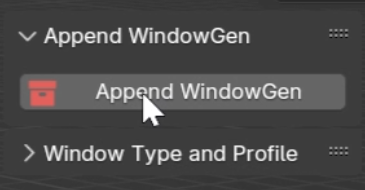
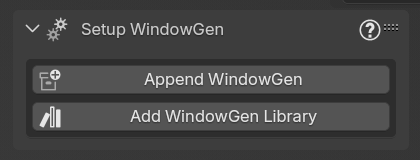
update to 3.0 version

diff --git a/docs/source/conf.py b/docs/source/conf.py
@@ -5,11 +5,11 @@
 # -- Project information
 
 project = 'WindowGen'
-copyright = '2024, Mikhail Shevchenko'
+copyright = '2025, Mikhail Shevchenko'
 author = 'Mikhail Shevchenko'
 
-release = '2.0'
-version = '2.0.1'
+release = '3.0'
+version = '3.0.1'
 
 # -- General configuration
 

diff --git a/docs/source/working_with_generator.rst b/docs/source/working_with_generator.rst
@@ -26,35 +26,85 @@ Before adding your first window to the scene, you need to append WindowGen compo
     .. image:: images/02_working_with_01append.png
         :width: 50%  
 
-2. The button will turn blue, indicating that Blender is loading all the necessary components into your scene. This process takes a few seconds.
+2. The button will turn into progress bar, indicating that Blender is loading all the necessary components into your scene. This process takes 5-10 seconds.
 
     .. image:: images/02_working_with_01loading.png
         :width: 50%
 
-3. Once all the components are loaded, the button will turn grey, and the text "Successfully Appended!" will appear on the button.
+3. Once all the components are loaded, the button will turn grey, and the text "WindowGen Appended" will appear on the button. And the panel "Add Window" will appear as well.
 
     .. image:: images/02_working_with_01success.png
+        :width: 50%
+
+How to add WindowGen Asset Library to the Blender
+-------------------------------------
+
+WindowGen Asset Library will bring realistic materials to customize the appearance of your windows even further:
+
+1. Press the "Add WindowGen Library" button.
+
+    .. image:: images/02_working_with_03add.png
+        :width: 50%  
+
+2. Once the Asset Library is added, the button will turn grey, and the text "WindowGen Library Added" will appear on the button.
+
+    .. image:: images/02_working_with_03success.png
+        :width: 50%
+
+3. Navigate to the Asset Browser, and select WindowGen in the libraries list to find the materials.
+
+    .. image:: images/02_working_with_03browser.gif
+        :width: 50%
+
+    .. tip::
+        For easier seacrh most of the materials have tags: Metal, Plastic, RAL color code, etc.
+
+How to update WindowGen
+-------------------------------------
+
+Once you install the latest version of WindowGen addon, you will be able to update your older projects to this version.
+    .. note::
+        WindowGen automatically finds the latest version on your PC and changes the UI to indicate if update is available.
+
+1. Press the "Update" button.
+
+    .. image:: images/02_working_with_04update.png
+        :width: 50%  
+
+2. The button will turn into progress bar, indicating that Blender is updating all the necessary components. This process takes 5-10 seconds.
+
+    .. image:: images/02_working_with_04loading.png
+        :width: 50%
+
+3. Once the upgrade is completed, the UI will return to it's default state.
+
+    .. image:: images/02_working_with_04success.png
         :width: 50%
 
 How to add new window to the scene
 ----------------------------------
 
-1. Expand "Window Type and Profile" panel.
-
-    .. image:: images/02_working_with_02expand.gif
-        :width: 75%
-
-2. Choose where to place the window: either at the World Origin or at the 3D Cursor.
+1. Choose where to place the window: at the World Origin, at the 3D Cursor or at the Selected Face.
 
     .. image:: images/02_working_with_02origin.gif
         :width: 75%
 
-3. Click on the Window Icon to open the window presets gallery.
+2. When Selected Face option is chosen. Before adding the window, enter Edit Mode (Tab) and select a Face or an Edge Loop you want your window to be placed at. After you made seletion go back to the Object Mode (Tab). And add the window (see the next step).
+
+    .. image:: images/02_working_with_02face.gif
+        :width: 75%
+
+3. Choose the window type: Casement, Portal or Sliding.
+
+    .. image:: images/02_working_with_02types.gif
+        :width: 75%
+
+4. Click on the Window Icon to open the window presets gallery.
 
     .. image:: images/02_working_with_02pressets.gif
         :width: 75%
 
-4. Choose one of the presets to add it to your scene.
+5. Choose one of the presets to add it to your scene.
 
     .. image:: images/02_working_with_02select.gif
         :width: 75%

diff --git a/docs/source/releases.rst b/docs/source/releases.rst
@@ -41,3 +41,18 @@ Version 2.0.5
 - Corrected stulp position for window heights of 2.1m and above for Stulp Window.
 - Resolved incorrect hinge orientation when "Realize Instances" is unchecked for Awning and Transom Windows.
 - Fixed incorrect glass position when "Outward Opening" is selected for 3 Section Window.
+
+Version 3.0
+-------------
+
+- Updated UI (now shows progress of appending and updating).
+- Increased performance, when initially appending WindowGen to the scene.
+- Added documentation links where applied.
+- New Placement Option — Place at Selected Face.
+- Added option to control profile resolution.
+- Added option to control texel dencity (scale UVs)
+- Added new types of windows — Portal (lift&slide doors) and Sliding
+- Added update functionality. Now you can update WindowGen and it's components to the latest version in your old projects.
+- Added export functionality. Now you can prepare windows for export: automatic separation to static and movable parts, cleaning materials, and setting origins. As well as automatic export to selected formats.
+- Added asset library with variety of materilas.
+- Fixed several bugs.

diff --git a/docs/source/index.rst b/docs/source/index.rst
@@ -5,9 +5,12 @@ Procedural Window Generator for Blender based on real life PVC window profiles a
 
 Supported Blender versions: **4.0+**
 
+..important::
+    In Blender 4.5, there is a known performance limitation when adding windows: the adding operation may take several seconds to complete, and the viewport can feel laggy (with a temporary FPS drop) while Blender finishes loading the new geometry. Please allow this process to finish before proceeding. We are actively working on optimizations to eliminate both the delay and the viewport slowdown in a future update
+
 .. raw:: html
 
-    Available both on <a href="https://fetometo.gumroad.com/l/WindowGen" target="_blank">Gumroad</a> and <a href="https://blendermarket.com/products/windowgen" target="_blank">Blender Market</a>
+    Available both on <a href="https://fetometo.gumroad.com/l/WindowGen" target="_blank">Gumroad</a> and <a href="https://superhivemarket.com/products/windowgen" target="_blank">Superhive ( former Blender Market)</a>
 
 .. toctree::
    :maxdepth: 4

diff --git a/docs/source/future_plans.rst b/docs/source/future_plans.rst
@@ -1,12 +1,12 @@
 Future Plans
 ============
 
-Currently in the work and will be delivered with the next update 2.1.0:
+Currently in the work and will be delivered with the next update 3.1.0:
 
 - New Window Types
 - New Profiles
 - New Handles
-- Sliding Windows
+- Sliding Windows (vertical)
 
 .. note::
     If you have ideas for new functionalities you'd like to see implemented or specific requirements tailored to your project, please don't hesitate to reach out to us. We value your feedback and are committed to enhancing WindowGen to better suit your needs. Contact us to discuss your suggestions or requirements further. We're here to help! (i@mshevchenko.ru)
